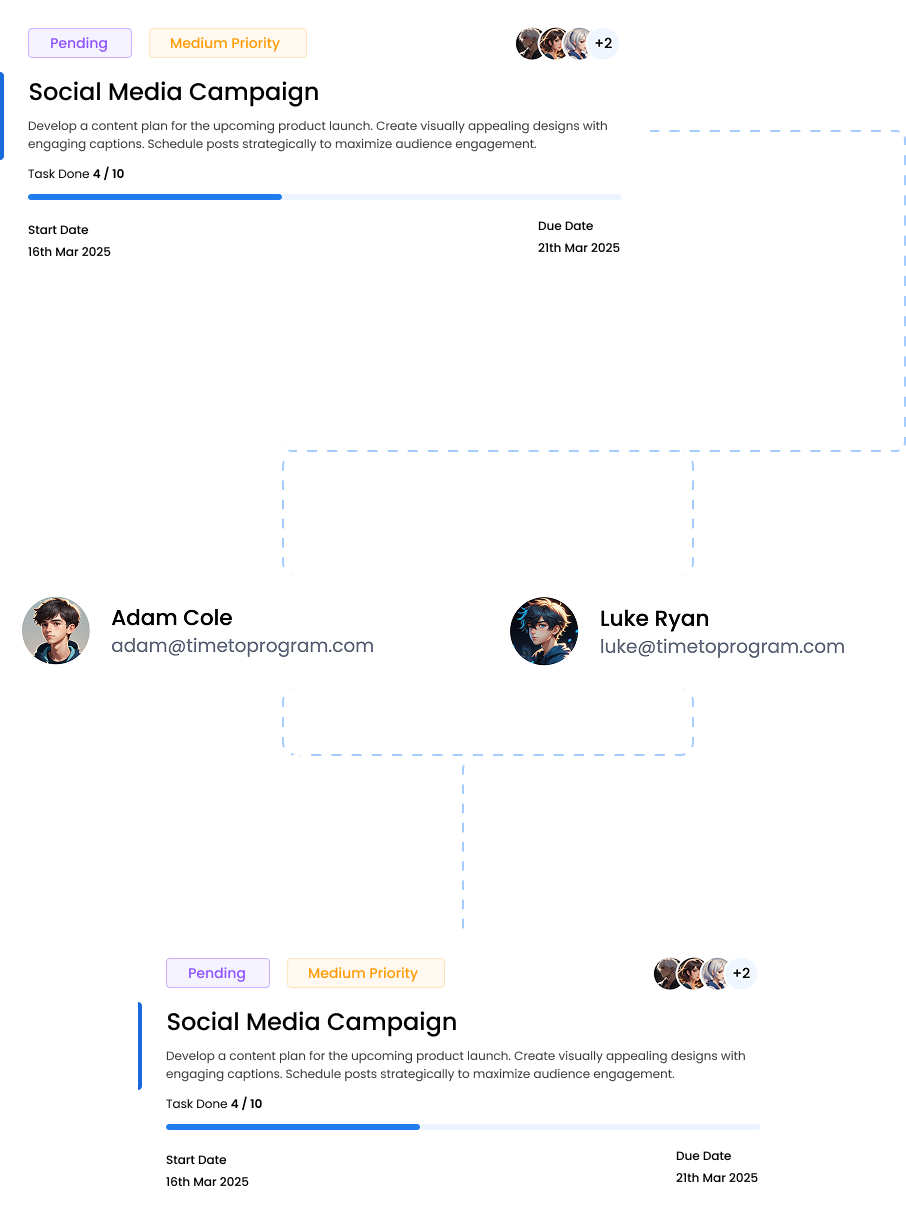
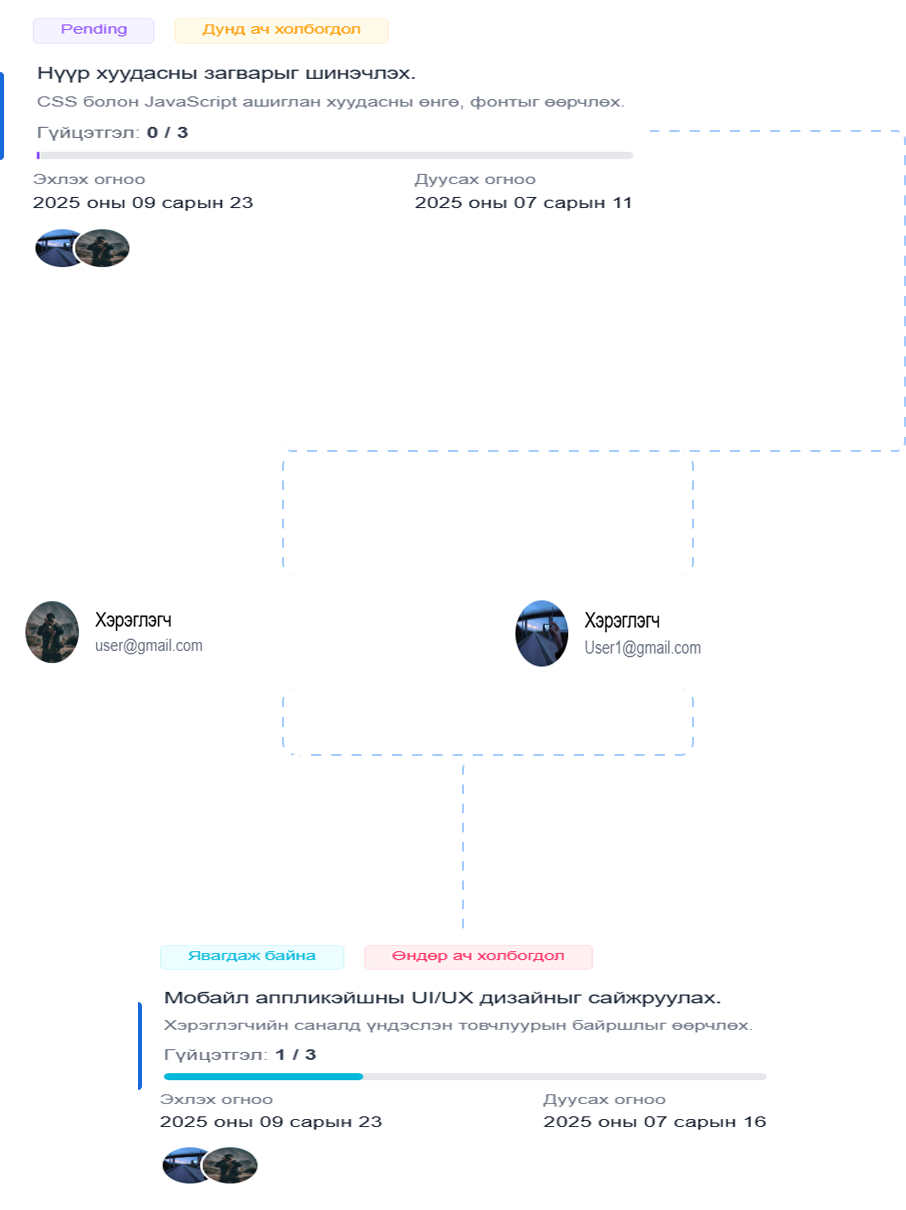
mongol bolgoj hurwvvlj database holboson

diff --git a/frontend/Task-Manager/src/components/layouts/AuthLayout.jsx b/frontend/Task-Manager/src/components/layouts/AuthLayout.jsx
@@ -1,17 +1,22 @@
 import React from "react";
+// import UI_IMG from "../../assets/images/#";
 import UI_IMG from "../../assets/images/auth-img.png";
 
 const AuthLayout = ({ children }) => {
-  return <div className="flex">
+  return (
+    <div className="flex">
       <div className="w-screen h-screen md:w-[60vw] px-12 pt-8 pb-12">
-        <h2 className="text-lg font-medium text-black">Task Manager</h2>
+        <h2 className="text-2xl font-bold text-black ">
+          Хэрэглэгчийн хянах самбар
+        </h2>
         {children}
       </div>
 
-      <div className="hidden md:flex w-[40vw] h-screen items-center justify-center bg-blue-50 bg-[url('/bg-img.png')] bg-cover bg-no-repeat bg-center overflow-hidden p-8">
-        <img src={UI_IMG} className="w-64 lg:w-[90%]" />
+      <div className="hidden md:flex w-[50vw] h-screen items-center justify-center bg-blue-50 bg-[url('/bg-img.png')] bg-cover bg-no-repeat bg-center overflow-hidden p-8">
+        <img src={UI_IMG} className="w-64 lg:w-[90%] px-5" />
       </div>
     </div>
+  );
 };
 
 export default AuthLayout;

diff --git a/frontend/Task-Manager/src/pages/User/MyTasks.jsx b/frontend/Task-Manager/src/pages/User/MyTasks.jsx
@@ -47,7 +47,7 @@ const MyTasks = () => {
     navigate(`/user/task-details/${taskId}`);
   };
 
-  // `filterStatus` өөрчлөгдөх бүрд `getAllTasks` функцийг дуудна
+  // `filterStatus` өөрчлөгд  өх бүрд `getAllTasks` функцийг дуудна
   useEffect(() => {
     getAllTasks(filterStatus);
     return () => {}; // Цэвэрлэх функц (component unmount хийгдэхэд ашиглагдана)

diff --git a/frontend/Task-Manager/src/components/layouts/Navbar.jsx b/frontend/Task-Manager/src/components/layouts/Navbar.jsx
@@ -20,7 +20,9 @@ const Navbar = ({ activeMenu }) => {
         )}
       </button>
 
-      <h2 className="text-lg font-medium text-black">Task Manager</h2>
+      <h2 className="text-lg font-medium text-black">
+        Хэрэглэгчийн хянах самбар
+      </h2>
 
       {openSideMenu && (
         <div className="fixed top-[61px] -ml-4 bg-white">

diff --git a/frontend/Task-Manager/src/pages/Auth/SignUp.jsx b/frontend/Task-Manager/src/pages/Auth/SignUp.jsx
@@ -107,7 +107,7 @@ const SignUp = () => {
               value={email}
               onChange={({ target }) => setEmail(target.value)}
               label="И-мэйл хаяг"
-              placeholder="john@example.com"
+              placeholder="Та И-мэйл хаягаа оруулна уу."
               type="text"
             />
             <Input

diff --git a/frontend/Task-Manager/src/pages/Auth/Login.jsx b/frontend/Task-Manager/src/pages/Auth/Login.jsx
@@ -77,7 +77,7 @@ const Login = () => {
             value={email}
             onChange={({ target }) => setEmail(target.value)}
             label="И-мэйл хаяг"
-            placeholder="john@example.com"
+            placeholder="Та мэйл хаягаа оруулна уу"
             type="text"
           />
 
